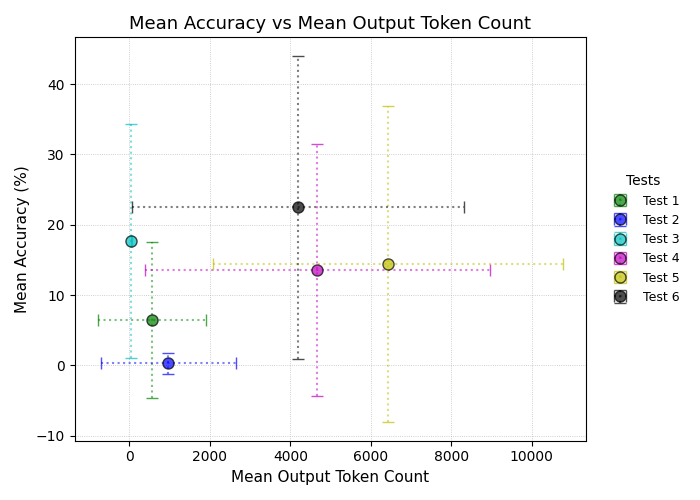
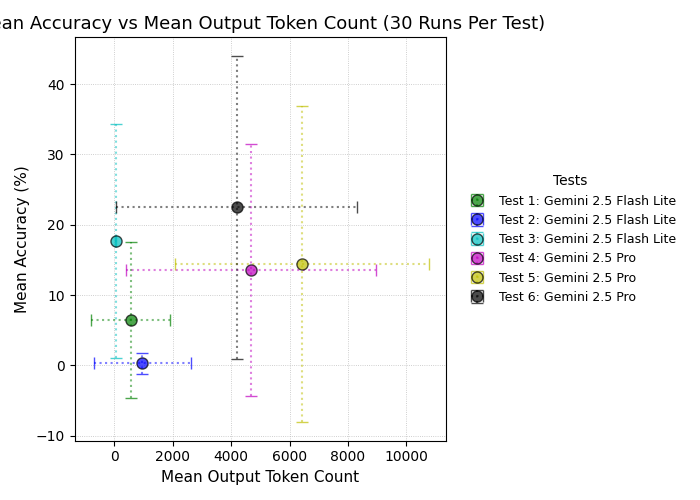
edited graph title and legend

diff --git a/statistics_charts.py b/statistics_charts.py
@@ -104,12 +104,12 @@ print(f'test6: ({mean_tc6}, {mean_6}), deviations: ({sigma_tc6},{sigma_6})')
 
 # Combine for easy looping
 tests = [
-    (mean_tc1, mean_1, sigma_tc1, sigma_1, 'g', 'Test 1'),
-    (mean_tc2, mean_2, sigma_tc2, sigma_2, 'b', 'Test 2'),
-    (mean_tc3, mean_3, sigma_tc3, sigma_3, 'c', 'Test 3'),
-    (mean_tc4, mean_4, sigma_tc4, sigma_4, 'm', 'Test 4'),
-    (mean_tc5, mean_5, sigma_tc5, sigma_5, 'y', 'Test 5'),
-    (mean_tc6, mean_6, sigma_tc6, sigma_6, 'k', 'Test 6'),
+    (mean_tc1, mean_1, sigma_tc1, sigma_1, 'g', 'Test 1: Gemini 2.5 Flash Lite'),
+    (mean_tc2, mean_2, sigma_tc2, sigma_2, 'b', 'Test 2: Gemini 2.5 Flash Lite'),
+    (mean_tc3, mean_3, sigma_tc3, sigma_3, 'c', 'Test 3: Gemini 2.5 Flash Lite'),
+    (mean_tc4, mean_4, sigma_tc4, sigma_4, 'm', 'Test 4: Gemini 2.5 Pro'),
+    (mean_tc5, mean_5, sigma_tc5, sigma_5, 'y', 'Test 5: Gemini 2.5 Pro'),
+    (mean_tc6, mean_6, sigma_tc6, sigma_6, 'k', 'Test 6: Gemini 2.5 Pro'),
 ]
 
 # === Plot setup ===
@@ -132,7 +132,7 @@ for mean_tc, mean_acc, sigma_tc, sigma_acc, color, label in tests:
         bar.set_alpha(0.5)
 
 # === Labels, title, grid, legend ===
-plt.title('Mean Accuracy vs Mean Output Token Count', fontsize=13)
+plt.title('Mean Accuracy vs Mean Output Token Count (30 Runs Per Test)', fontsize=13)
 plt.xlabel('Mean Output Token Count', fontsize=11)
 plt.ylabel('Mean Accuracy (%)', fontsize=11)
 
